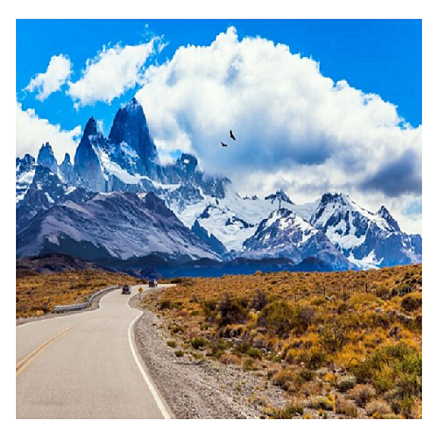
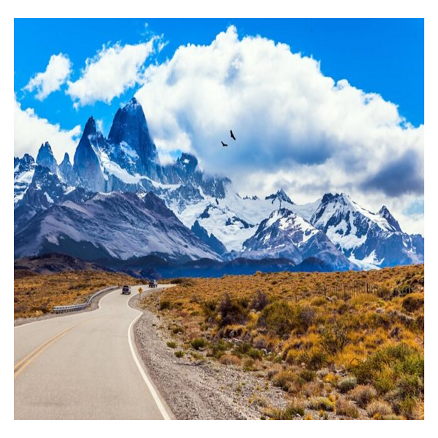
melhorias

diff --git a/pages/conheca.html b/pages/conheca.html
@@ -31,15 +31,48 @@
 					<section id="main" class="wrapper">
 						<div class="inner">
 							<h1 class="major">Conheça</h1>
-							<span class="image fit"><img src="../images/patagonia003.jpg" alt="" /></span>
-							<p>A Patagônia é uma região que abrange uma vasta área no extremo sul da América do Sul, 
-							ocupando partes da Argentina e do Chile. A Cordilheira dos Andes delimita a fronteira entre os dois países.
-							Tenha em mente que a Patagônia é uma imensa área de quase 800 mil km². Pelas grandes dimensões e 
-							grande variedade de paisagens, são muitas as possibilidades de turismo na Patagônia.</p>
-							<p>Atualmente é conhecida como um dos principais destinos de ecoturismo e turismo de aventura do mundo.</p>
-							
-							<p><span class="image left"><img src="../images/pic05.jpg" alt="" /></span>Fringilla nisl. Donec accumsan interdum nisi, quis tincidunt felis sagittis eget. tempus euismod. Vestibulum ante ipsum primis in faucibus vestibulum. Blandit adipiscing eu felis iaculis volutpat ac adipiscing accumsan eu faucibus. Integer ac pellentesque praesent tincidunt felis sagittis eget. tempus euismod. Vestibulum ante ipsum primis in faucibus vestibulum. Blandit adipiscing eu felis iaculis volutpat ac adipiscing accumsan eu faucibus. Integer ac pellentesque praesent. Donec accumsan interdum nisi, quis tincidunt felis sagittis eget. tempus euismod. Vestibulum ante ipsum primis in faucibus vestibulum. Blandit adipiscing eu felis iaculis volutpat ac adipiscing accumsan eu faucibus. Integer ac pellentesque praesent tincidunt felis sagittis eget. tempus euismod. Vestibulum ante ipsum primis in faucibus vestibulum. Blandit adipiscing eu felis iaculis volutpat ac adipiscing accumsan eu faucibus. Integer ac pellentesque praesent. Blandit adipiscing eu felis iaculis volutpat ac adipiscing accumsan eu faucibus. Integer ac pellentesque praesent tincidunt felis sagittis eget. tempus euismod. Vestibulum ante ipsum primis in faucibus vestibulum. Blandit adipiscing eu felis iaculis volutpat ac adipiscing accumsan eu faucibus. Integer ac pellentesque praesent.</p>
-							<p><span class="image right"><img src="../images/pic06.jpg" alt="" /></span>Fringilla nisl. Donec accumsan interdum nisi, quis tincidunt felis sagittis eget. tempus euismod. Vestibulum ante ipsum primis in faucibus vestibulum. Blandit adipiscing eu felis iaculis volutpat ac adipiscing accumsan eu faucibus. Integer ac pellentesque praesent tincidunt felis sagittis eget. tempus euismod. Vestibulum ante ipsum primis in faucibus vestibulum. Blandit adipiscing eu felis iaculis volutpat ac adipiscing accumsan eu faucibus. Integer ac pellentesque praesent. Donec accumsan interdum nisi, quis tincidunt felis sagittis eget. tempus euismod. Vestibulum ante ipsum primis in faucibus vestibulum. Blandit adipiscing eu felis iaculis volutpat ac adipiscing accumsan eu faucibus. Integer ac pellentesque praesent tincidunt felis sagittis eget. tempus euismod. Vestibulum ante ipsum primis in faucibus vestibulum. Blandit adipiscing eu felis iaculis volutpat ac adipiscing accumsan eu faucibus. Integer ac pellentesque praesent. Blandit adipiscing eu felis iaculis volutpat ac adipiscing accumsan eu faucibus. Integer ac pellentesque praesent tincidunt felis sagittis eget. tempus euismod. Vestibulum ante ipsum primis in faucibus vestibulum. Blandit adipiscing eu felis iaculis volutpat ac adipiscing accumsan eu faucibus. Integer ac pellentesque praesent.</p>
+							<span class="image fit"><img src="../images/patagonia003.png" alt="" /></span>
+							<p>
+								A Patagônia é uma <b>região</b> que abrange uma <b>vasta área</b> no extremo sul da América do Sul, 
+								ocupando <b>partes da Argentina e do Chile</b>. Atualmente, a Patagônia é conhecida como um 
+								dos principais destinos de <b>ecoturismo e turismo de aventura</b> do mundo. Pelas grandes 
+								dimensões e grande variedade de paisagens, são muitas as possibilidades de turismo.</p>
+								<p>A pontinha da nossa América do Sul tem uma <b>natureza</b> que é uma das mais intocadas 
+								do planeta Terra e impressiona pela sua <b>grandeza</b>, sua <b>beleza</b> e sua 
+								<b>ampla diversidade</b> de vegetação, clima e relevo. Então, uma das perguntas mais frequentes dos 
+								viajantes é: <b>Visitar a Patagônia Chilena ou Argentina?</b> ... 
+								Segue um resumão das principais diferenças
+							</p>							
+							<p>
+								<span class="image left"><img src="../images/patagonia_argentina001.png" alt="" /></span>
+								Na Argentina encontramos uma região <b>mais árida</b>, com pastagens e desertos.
+								A maior parte da Patagônia encontra-se na Argentina, onde inclusive se concentram um 
+								<b>maior número de cidades</b>, o que consequentemente fez com que essa parte fosse mais visitada 
+								e explorada. Além de oferecer uma <b>maior infraestrutura</b> para receber os visitantes, o que 
+								já não acontece tanto na Patagônia Chilena, que se encontra um pouco mais isolada.
+								Um dos seus principais pontos turísticos é a cidade de <b>Ushuaia</b>, mais conhecida como a 
+								<b>cidade “do fim do mundo”</b>, ou cidade mais austral do mundo, por se localizar no extremo 
+								austral da América do Sul. Com uma área de aproximadamente 930 mil quilômetros quadrados, 
+								a Patagônia Argentina concentra <b>11 parques nacionais</b> e outras diversas reservas naturais, 
+								onde se encontra muita vida selvagem e uma grande variedade de espécies de animais. 
+								Como na Península Valdés e a Punta Tombo, com a <b>maior colônia de pinguim-de-magalhães 
+								do mundo</b>.
+							</p>														
+							<p>
+								<span class="image right"><img src="../images/patagonia_chile001.png" alt="" /></span>
+								No Chile, temos uma floresta temperada e os famosos <b>fiordes</b>. A Patagônia Chilena 
+								ocupa uma área de 240 mil quilômetros quadrados de superfície, que vão de <b>Puerto Montt</b> até 
+								<b>Punta Arenas</b>. Punta Arenas é um dos principais pontos do país, a porta de entrada ou 
+								saída dos navios de cruzeiros. A geografia da Patagônia Chilena oferece o melhor de 
+								dois mundos, ricas áreas verdes arborizadas e uma região completamente inóspita, onde 
+								se encontra a <b>terceira maior extensão de gelos continentais do mundo</b>. 
+								Cerca de 21 mil quilômetros quadrados. A região também é bem conhecida pela sua grande 
+								quantidade de águas cristalinas, com tons esverdeados, muitos <b>terrenos bem arborizados</b> e 
+								uma vegetação predominante de estepe. 
+							</p>
+							<br>
+							<br>
+							<p><a href="../index.html">Clique aqui para voltar a página inicial</a></p>
 						</div>
 					</section>
 

diff --git a/pages/considere.html b/pages/considere.html
@@ -6,7 +6,7 @@
 -->
 <html>
 	<head>
-		<title>Conheça - Divertiviagens</title>
+		<title>Considere - Divertiviagens</title>
 		<meta charset="utf-8" />
 		<meta name="viewport" content="width=device-width, initial-scale=1, user-scalable=no" />
 		<link rel="stylesheet" href="../assets/css/main.css" />
@@ -31,13 +31,14 @@
 					<section id="main" class="wrapper">
 						<div class="inner">
 							<h1 class="major">Considere... </h1>
-							<span class="image fit"><img src="../images/patagonia003.jpg" alt="" /></span>
-							<p>A primeira escolha que você deve fazer é a época do ano em que irá viajar. 
+							<span class="image fit"><img src="../images/patagonia004.png" alt="" /></span>
+							<p>Olhe para as imagens acima... Se você leu a seção "Conheça Um Pouco", você percebeu que 
+							não tem como ver as 3 situações na mesma época do ano. Então você terá que fazer escolhas</p>
+							<p>A <b>primeira escolha que você deve fazer é a época</b> do ano em que irá viajar. 
 							No verão, os dias são longos e você pode aproveitar mais o tempo, no inverno os dias são curtos, 
 							algumas atividades não podem ser praticadas, mas é a época ideal para praticar atividades na neve.</p>
-							<p>Sua segunda escolha deve ser qual tipo de atividade quer praticar. 
-							Trekking, caminhada sobre os glaciares, navegação, avistagem de animais. 
-							São muitas opções possíveis.</p>							
+							<p>Sua <b>segunda escolha deve ser qual tipo de atividade quer praticar</b>. Trekking, 
+							caminhada sobre os glaciares, navegação, avistagem de animais. São muitas opções possíveis.</p>							
 							<p><span class="image left"><img src="../images/pic05.jpg" alt="" /></span>Fringilla nisl. Donec accumsan interdum nisi, quis tincidunt felis sagittis eget. tempus euismod. Vestibulum ante ipsum primis in faucibus vestibulum. Blandit adipiscing eu felis iaculis volutpat ac adipiscing accumsan eu faucibus. Integer ac pellentesque praesent tincidunt felis sagittis eget. tempus euismod. Vestibulum ante ipsum primis in faucibus vestibulum. Blandit adipiscing eu felis iaculis volutpat ac adipiscing accumsan eu faucibus. Integer ac pellentesque praesent. Donec accumsan interdum nisi, quis tincidunt felis sagittis eget. tempus euismod. Vestibulum ante ipsum primis in faucibus vestibulum. Blandit adipiscing eu felis iaculis volutpat ac adipiscing accumsan eu faucibus. Integer ac pellentesque praesent tincidunt felis sagittis eget. tempus euismod. Vestibulum ante ipsum primis in faucibus vestibulum. Blandit adipiscing eu felis iaculis volutpat ac adipiscing accumsan eu faucibus. Integer ac pellentesque praesent. Blandit adipiscing eu felis iaculis volutpat ac adipiscing accumsan eu faucibus. Integer ac pellentesque praesent tincidunt felis sagittis eget. tempus euismod. Vestibulum ante ipsum primis in faucibus vestibulum. Blandit adipiscing eu felis iaculis volutpat ac adipiscing accumsan eu faucibus. Integer ac pellentesque praesent.</p>
 							<p><span class="image right"><img src="../images/pic06.jpg" alt="" /></span>Fringilla nisl. Donec accumsan interdum nisi, quis tincidunt felis sagittis eget. tempus euismod. Vestibulum ante ipsum primis in faucibus vestibulum. Blandit adipiscing eu felis iaculis volutpat ac adipiscing accumsan eu faucibus. Integer ac pellentesque praesent tincidunt felis sagittis eget. tempus euismod. Vestibulum ante ipsum primis in faucibus vestibulum. Blandit adipiscing eu felis iaculis volutpat ac adipiscing accumsan eu faucibus. Integer ac pellentesque praesent. Donec accumsan interdum nisi, quis tincidunt felis sagittis eget. tempus euismod. Vestibulum ante ipsum primis in faucibus vestibulum. Blandit adipiscing eu felis iaculis volutpat ac adipiscing accumsan eu faucibus. Integer ac pellentesque praesent tincidunt felis sagittis eget. tempus euismod. Vestibulum ante ipsum primis in faucibus vestibulum. Blandit adipiscing eu felis iaculis volutpat ac adipiscing accumsan eu faucibus. Integer ac pellentesque praesent. Blandit adipiscing eu felis iaculis volutpat ac adipiscing accumsan eu faucibus. Integer ac pellentesque praesent tincidunt felis sagittis eget. tempus euismod. Vestibulum ante ipsum primis in faucibus vestibulum. Blandit adipiscing eu felis iaculis volutpat ac adipiscing accumsan eu faucibus. Integer ac pellentesque praesent.</p>
 						</div>

diff --git a/index.html b/index.html
@@ -34,9 +34,9 @@
 				<!-- Intro -->
 					<section id="intro" class="wrapper style1 fullscreen fade-up">
 						<div class="inner">
-							<h1>Divertiviagens</h1>
+							<h1>Patagônia 2023</h1>
 							<p>Eu uso este espaço para guardar informações de pesquisa e organizar <br />
-							ideias para meus roteiros de viagem.</p>
+							ideias para meus roteiros de viagens grandes. </p>
 							<ul class="actions">
 								<li><a href="#one" class="button scrolly">saiba mais</a></li>
 							</ul>
@@ -49,7 +49,7 @@
 							<a href="pages/conheca.html" class="image"><img src="images/patagonia001.png" alt="" data-position="center center" /></a>
 							<div class="content">
 								<div class="inner">
-									<h2>Conheça um pouco do lugar</h2>
+									<h2>Conheça um pouco do lugar...</h2>
 									<p>Se você não conhece a Patagônia, neste espaço você vai encontrar as razões para incluí-la na sua lista de desejos &#128521</p>
 									<ul class="actions">
 										<li><a href="pages/conheca.html" class="button">saiba mais</a></li>
